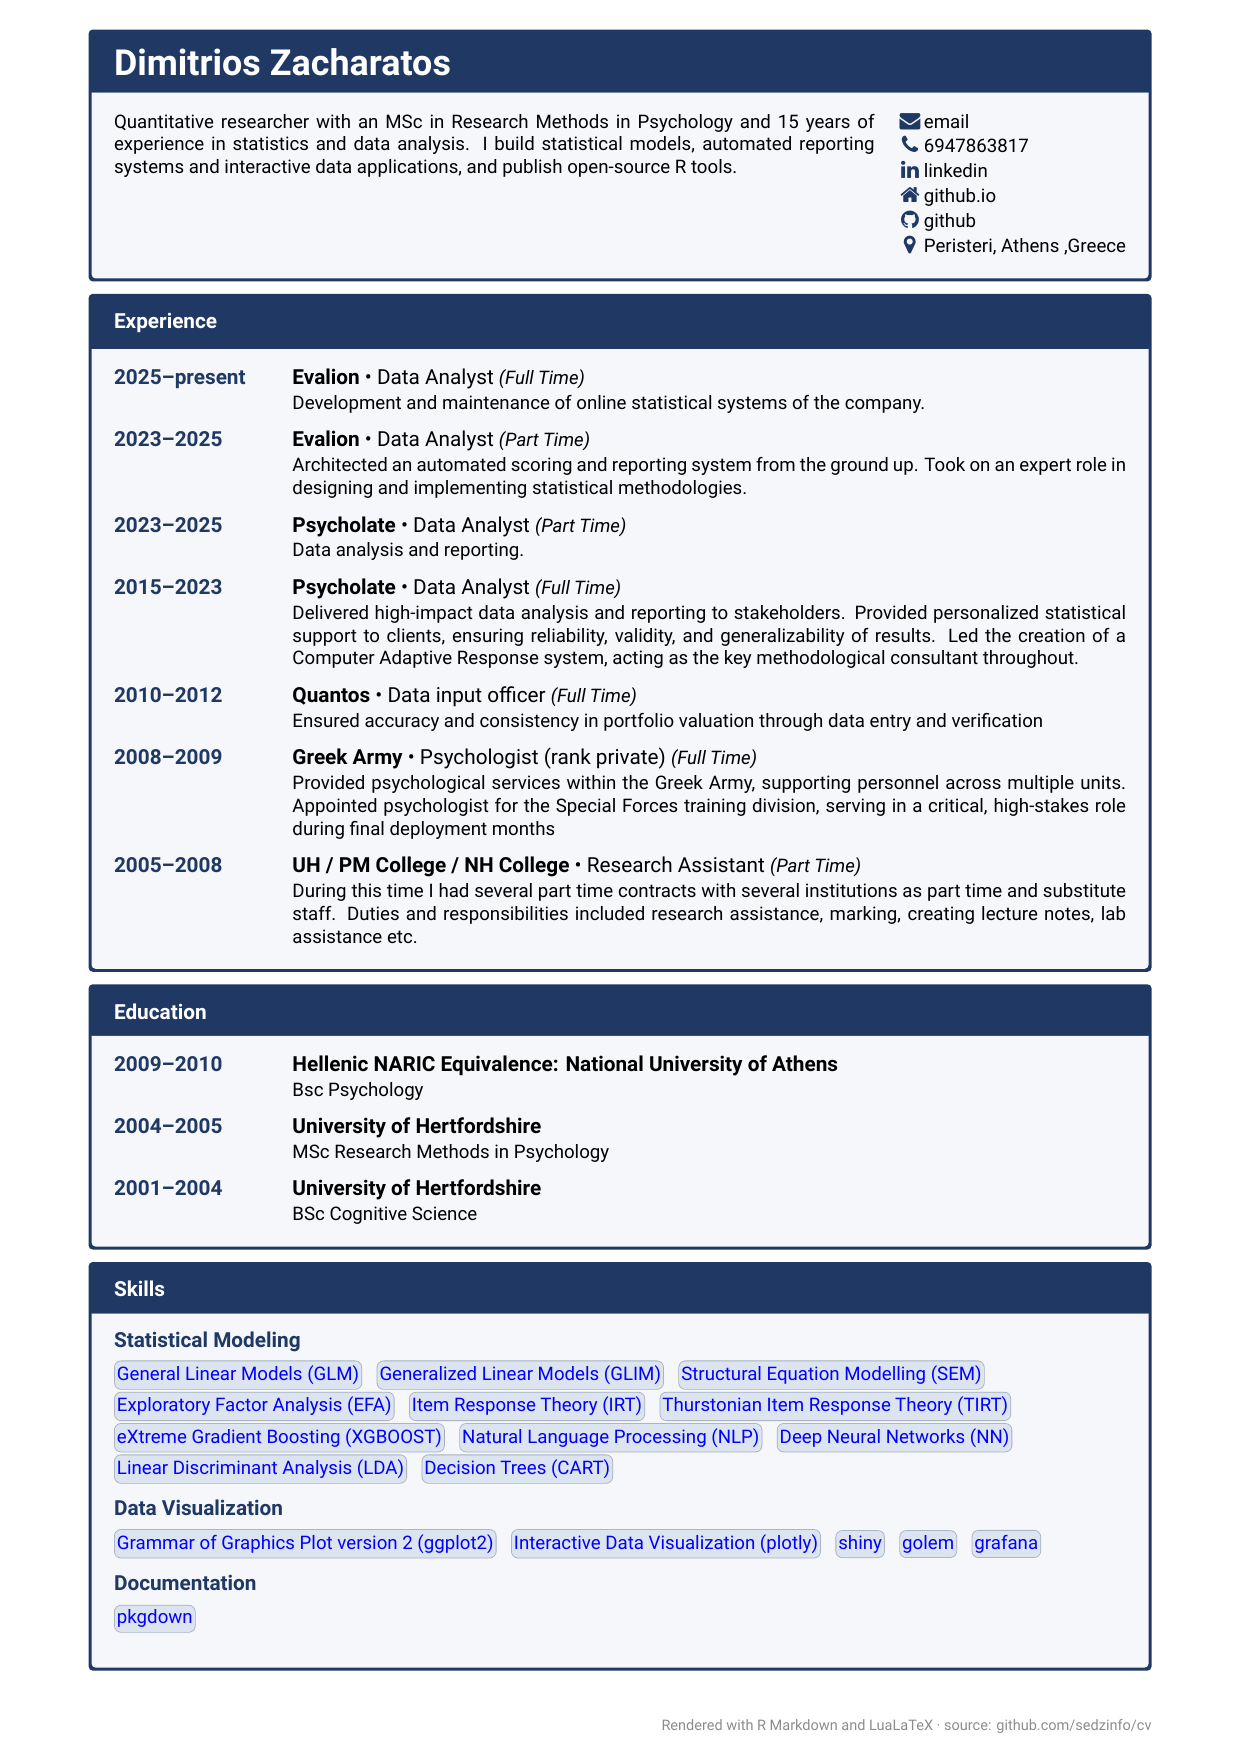
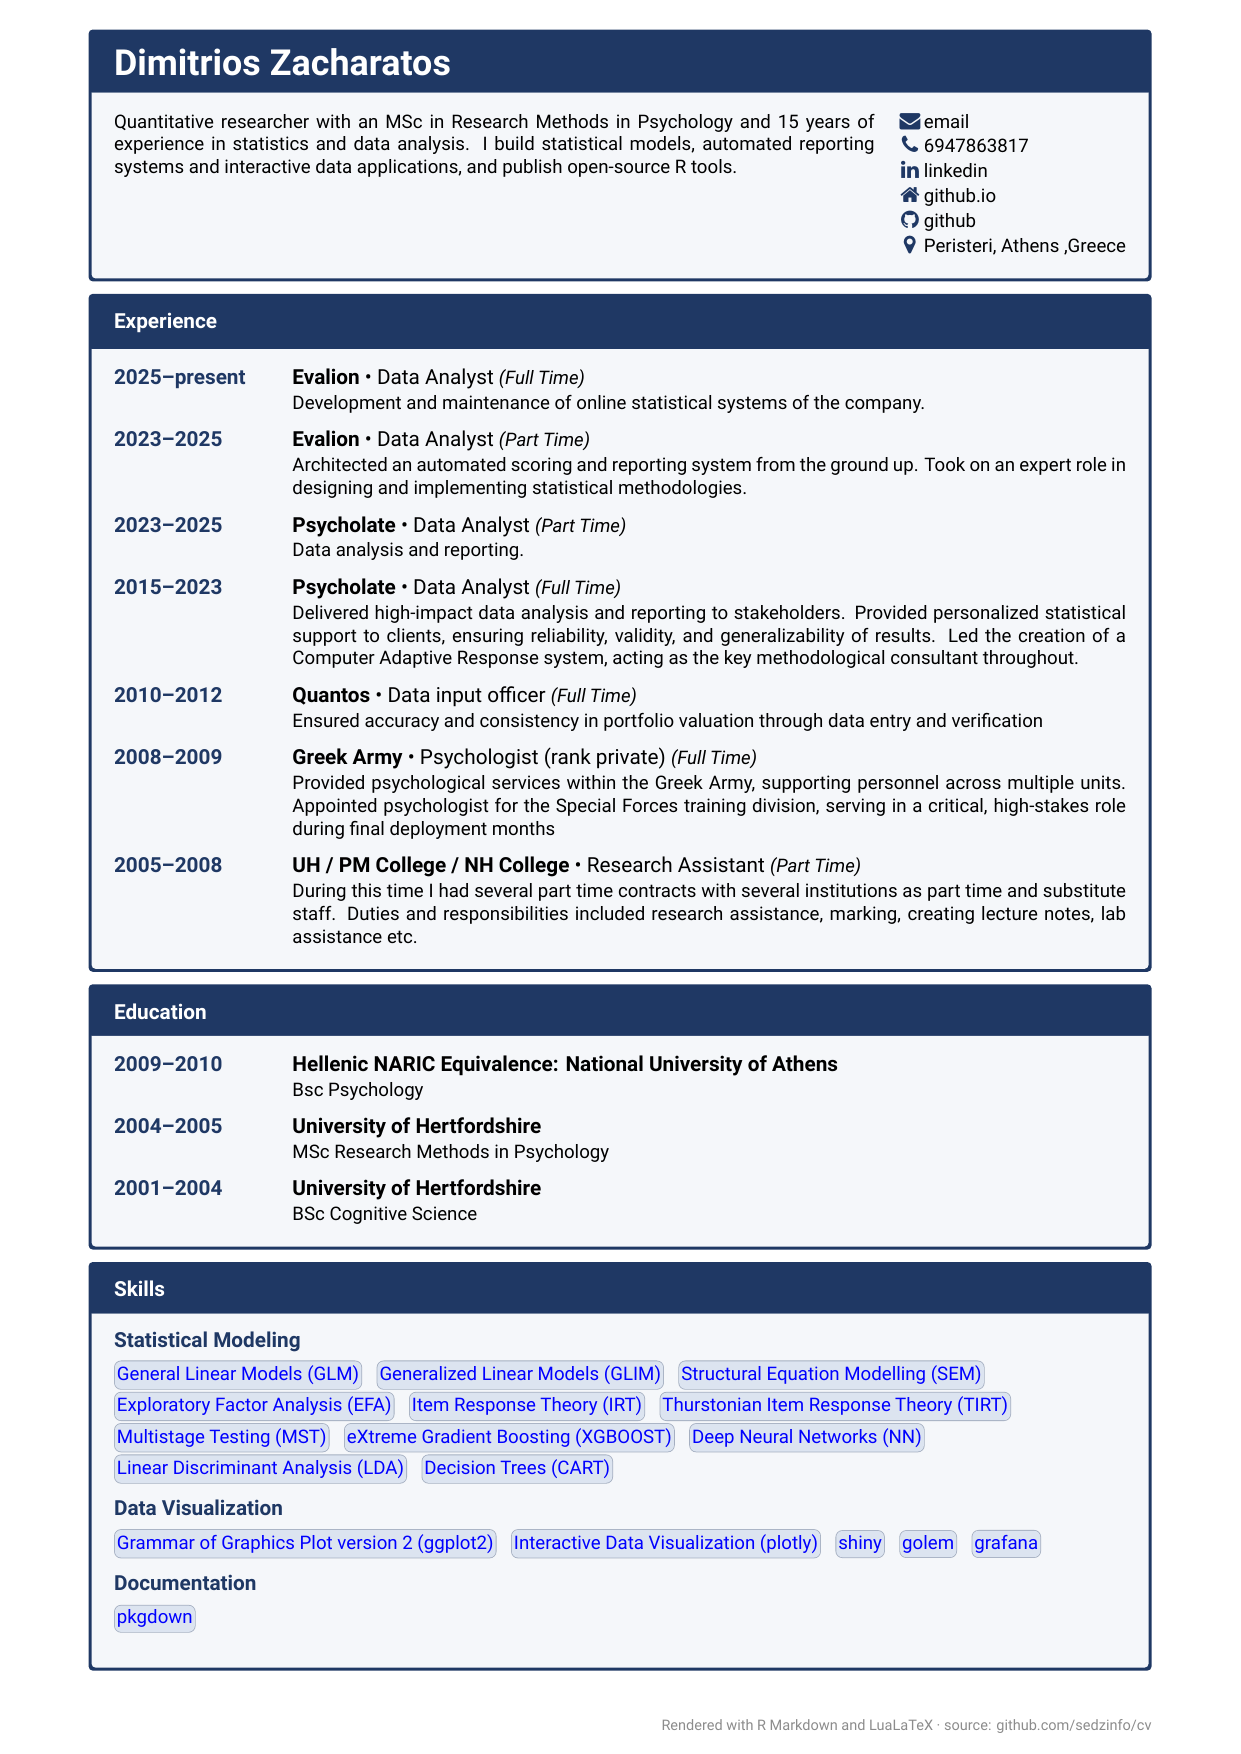
Render CV PDFs [skip ci]

Changed region(s): [[0.0919, 0.8005, 0.8268, 0.8312]]

diff --git a/cv_v2.tex b/cv_v2.tex
@@ -165,7 +165,7 @@ Quarto articles & \href{https://sedzinfo.github.io/vignettes/illustration/}{\tex
 \noindent
 
 \begin{tabularx}{\linewidth}{@{}>{\small\raggedright\arraybackslash\hyphenpenalty=10000\leavevmode\color{muted}}p{2.55cm}X@{}}
-Statistical Modeling & {\small \mbox{\href{https://sedzinfo.github.io/rwf/articles/GLM_COMPUTE_AOV_ES.html}{\textcolor{linkblue}{General Linear Models (GLM)}}}\discretionary{}{}{\hbox{\kern0.55em{\color{accent!40}\textbullet}\kern0.55em}}\mbox{\href{https://sedzinfo.github.io/rwf/articles/GLM_LOGISTIC_REGRESSION.html}{\textcolor{linkblue}{Generalized Linear Models (GLIM)}}}\discretionary{}{}{\hbox{\kern0.55em{\color{accent!40}\textbullet}\kern0.55em}}\mbox{\href{https://rpubs.com/sedzinfo/cfa_mi}{\textcolor{linkblue}{Structural Equation Modelling (SEM)}}}\discretionary{}{}{\hbox{\kern0.55em{\color{accent!40}\textbullet}\kern0.55em}}\mbox{\href{https://sedzinfo.github.io/rwf/articles/GLM_EFA.html}{\textcolor{linkblue}{Exploratory Factor Analysis (EFA)}}}\discretionary{}{}{\hbox{\kern0.55em{\color{accent!40}\textbullet}\kern0.55em}}\mbox{\href{https://sedzinfo.github.io/vignettes/cat_irt_eap/}{\textcolor{linkblue}{Item Response Theory (IRT)}}}\discretionary{}{}{\hbox{\kern0.55em{\color{accent!40}\textbullet}\kern0.55em}}\mbox{\href{https://sedzinfo.github.io/rwf/articles/GLM_IRT_T.html}{\textcolor{linkblue}{Thurstonian Item Response Theory (TIRT)}}}\discretionary{}{}{\hbox{\kern0.55em{\color{accent!40}\textbullet}\kern0.55em}}\mbox{\href{https://rpubs.com/sedzinfo/functions_train_test}{\textcolor{linkblue}{eXtreme Gradient Boosting (XGBOOST)}}}\discretionary{}{}{\hbox{\kern0.55em{\color{accent!40}\textbullet}\kern0.55em}}\mbox{\href{https://rpubs.com/sedzinfo/nlp}{\textcolor{linkblue}{Natural Language Processing (NLP)}}}\discretionary{}{}{\hbox{\kern0.55em{\color{accent!40}\textbullet}\kern0.55em}}\mbox{\href{https://rpubs.com/sedzinfo/keras_mnist}{\textcolor{linkblue}{Deep Neural Networks (NN)}}}\discretionary{}{}{\hbox{\kern0.55em{\color{accent!40}\textbullet}\kern0.55em}}\mbox{\href{https://rpubs.com/sedzinfo/lda}{\textcolor{linkblue}{Linear Discriminant Analysis (LDA)}}}\discretionary{}{}{\hbox{\kern0.55em{\color{accent!40}\textbullet}\kern0.55em}}\mbox{\href{https://rpubs.com/sedzinfo/rpart}{\textcolor{linkblue}{Decision Trees (CART)}}}}\tabularnewline
+Statistical Modeling & {\small \mbox{\href{https://sedzinfo.github.io/rwf/articles/GLM_COMPUTE_AOV_ES.html}{\textcolor{linkblue}{General Linear Models (GLM)}}}\discretionary{}{}{\hbox{\kern0.55em{\color{accent!40}\textbullet}\kern0.55em}}\mbox{\href{https://sedzinfo.github.io/rwf/articles/GLM_LOGISTIC_REGRESSION.html}{\textcolor{linkblue}{Generalized Linear Models (GLIM)}}}\discretionary{}{}{\hbox{\kern0.55em{\color{accent!40}\textbullet}\kern0.55em}}\mbox{\href{https://sedzinfo.github.io/vignettes/example/EXAMPLE_MEASUREMENT_INVARIANCE.html}{\textcolor{linkblue}{Structural Equation Modelling (SEM)}}}\discretionary{}{}{\hbox{\kern0.55em{\color{accent!40}\textbullet}\kern0.55em}}\mbox{\href{https://sedzinfo.github.io/rwf/articles/GLM_EFA.html}{\textcolor{linkblue}{Exploratory Factor Analysis (EFA)}}}\discretionary{}{}{\hbox{\kern0.55em{\color{accent!40}\textbullet}\kern0.55em}}\mbox{\href{https://sedzinfo.github.io/vignettes/cat_irt_eap/}{\textcolor{linkblue}{Item Response Theory (IRT)}}}\discretionary{}{}{\hbox{\kern0.55em{\color{accent!40}\textbullet}\kern0.55em}}\mbox{\href{https://sedzinfo.github.io/rwf/articles/GLM_IRT_T.html}{\textcolor{linkblue}{Thurstonian Item Response Theory (TIRT)}}}\discretionary{}{}{\hbox{\kern0.55em{\color{accent!40}\textbullet}\kern0.55em}}\mbox{\href{https://sedzinfo.github.io/vignettes/example/EXAMPLE_MSTR.html}{\textcolor{linkblue}{Multistage Testing (MST)}}}\discretionary{}{}{\hbox{\kern0.55em{\color{accent!40}\textbullet}\kern0.55em}}\mbox{\href{https://rpubs.com/sedzinfo/functions_train_test}{\textcolor{linkblue}{eXtreme Gradient Boosting (XGBOOST)}}}\discretionary{}{}{\hbox{\kern0.55em{\color{accent!40}\textbullet}\kern0.55em}}\mbox{\href{https://sedzinfo.github.io/vignettes/example/EXAMPLE_MNIST.html}{\textcolor{linkblue}{Deep Neural Networks (NN)}}}\discretionary{}{}{\hbox{\kern0.55em{\color{accent!40}\textbullet}\kern0.55em}}\mbox{\href{https://sedzinfo.github.io/vignettes/example/EXAMPLE_LDA.html}{\textcolor{linkblue}{Linear Discriminant Analysis (LDA)}}}\discretionary{}{}{\hbox{\kern0.55em{\color{accent!40}\textbullet}\kern0.55em}}\mbox{\href{https://sedzinfo.github.io/vignettes/example/EXAMPLE_DECISION_TREE.html}{\textcolor{linkblue}{Decision Trees (CART)}}}}\tabularnewline
 \end{tabularx}\par\vspace{3pt}
 
 \noindent

diff --git a/cv_v1.tex b/cv_v1.tex
@@ -179,15 +179,15 @@
 \raggedright
 \skillchip{\href{https://sedzinfo.github.io/rwf/articles/GLM_COMPUTE_AOV_ES.html}{\textcolor{linkblue}{General Linear Models (GLM)}}} \hspace{2pt}
 \skillchip{\href{https://sedzinfo.github.io/rwf/articles/GLM_LOGISTIC_REGRESSION.html}{\textcolor{linkblue}{Generalized Linear Models (GLIM)}}} \hspace{2pt}
-\skillchip{\href{https://rpubs.com/sedzinfo/cfa_mi}{\textcolor{linkblue}{Structural Equation Modelling (SEM)}}} \hspace{2pt}
+\skillchip{\href{https://sedzinfo.github.io/vignettes/example/EXAMPLE_MEASUREMENT_INVARIANCE.html}{\textcolor{linkblue}{Structural Equation Modelling (SEM)}}} \hspace{2pt}
 \skillchip{\href{https://sedzinfo.github.io/rwf/articles/GLM_EFA.html}{\textcolor{linkblue}{Exploratory Factor Analysis (EFA)}}} \hspace{2pt}
 \skillchip{\href{https://sedzinfo.github.io/vignettes/cat_irt_eap/}{\textcolor{linkblue}{Item Response Theory (IRT)}}} \hspace{2pt}
 \skillchip{\href{https://sedzinfo.github.io/rwf/articles/GLM_IRT_T.html}{\textcolor{linkblue}{Thurstonian Item Response Theory (TIRT)}}} \hspace{2pt}
+\skillchip{\href{https://sedzinfo.github.io/vignettes/example/EXAMPLE_MSTR.html}{\textcolor{linkblue}{Multistage Testing (MST)}}} \hspace{2pt}
 \skillchip{\href{https://rpubs.com/sedzinfo/functions_train_test}{\textcolor{linkblue}{eXtreme Gradient Boosting (XGBOOST)}}} \hspace{2pt}
-\skillchip{\href{https://rpubs.com/sedzinfo/nlp}{\textcolor{linkblue}{Natural Language Processing (NLP)}}} \hspace{2pt}
-\skillchip{\href{https://rpubs.com/sedzinfo/keras_mnist}{\textcolor{linkblue}{Deep Neural Networks (NN)}}} \hspace{2pt}
-\skillchip{\href{https://rpubs.com/sedzinfo/lda}{\textcolor{linkblue}{Linear Discriminant Analysis (LDA)}}} \hspace{2pt}
-\skillchip{\href{https://rpubs.com/sedzinfo/rpart}{\textcolor{linkblue}{Decision Trees (CART)}}} \hspace{2pt}
+\skillchip{\href{https://sedzinfo.github.io/vignettes/example/EXAMPLE_MNIST.html}{\textcolor{linkblue}{Deep Neural Networks (NN)}}} \hspace{2pt}
+\skillchip{\href{https://sedzinfo.github.io/vignettes/example/EXAMPLE_LDA.html}{\textcolor{linkblue}{Linear Discriminant Analysis (LDA)}}} \hspace{2pt}
+\skillchip{\href{https://sedzinfo.github.io/vignettes/example/EXAMPLE_DECISION_TREE.html}{\textcolor{linkblue}{Decision Trees (CART)}}} \hspace{2pt}
 
 \vspace{8pt}
 

diff --git a/cv_v0.tex b/cv_v0.tex
@@ -192,15 +192,15 @@
 \raggedright
 \skillchip{\href{https://sedzinfo.github.io/rwf/articles/GLM_COMPUTE_AOV_ES.html}{\textcolor{blue}{General Linear Models (GLM)}}} \hspace{2pt}
 \skillchip{\href{https://sedzinfo.github.io/rwf/articles/GLM_LOGISTIC_REGRESSION.html}{\textcolor{blue}{Generalized Linear Models (GLIM)}}} \hspace{2pt}
-\skillchip{\href{https://rpubs.com/sedzinfo/cfa_mi}{\textcolor{blue}{Structural Equation Modelling (SEM)}}} \hspace{2pt}
+\skillchip{\href{https://sedzinfo.github.io/vignettes/example/EXAMPLE_MEASUREMENT_INVARIANCE.html}{\textcolor{blue}{Structural Equation Modelling (SEM)}}} \hspace{2pt}
 \skillchip{\href{https://sedzinfo.github.io/rwf/articles/GLM_EFA.html}{\textcolor{blue}{Exploratory Factor Analysis (EFA)}}} \hspace{2pt}
 \skillchip{\href{https://sedzinfo.github.io/vignettes/cat_irt_eap/}{\textcolor{blue}{Item Response Theory (IRT)}}} \hspace{2pt}
 \skillchip{\href{https://sedzinfo.github.io/rwf/articles/GLM_IRT_T.html}{\textcolor{blue}{Thurstonian Item Response Theory (TIRT)}}} \hspace{2pt}
+\skillchip{\href{https://sedzinfo.github.io/vignettes/example/EXAMPLE_MSTR.html}{\textcolor{blue}{Multistage Testing (MST)}}} \hspace{2pt}
 \skillchip{\href{https://rpubs.com/sedzinfo/functions_train_test}{\textcolor{blue}{eXtreme Gradient Boosting (XGBOOST)}}} \hspace{2pt}
-\skillchip{\href{https://rpubs.com/sedzinfo/nlp}{\textcolor{blue}{Natural Language Processing (NLP)}}} \hspace{2pt}
-\skillchip{\href{https://rpubs.com/sedzinfo/keras_mnist}{\textcolor{blue}{Deep Neural Networks (NN)}}} \hspace{2pt}
-\skillchip{\href{https://rpubs.com/sedzinfo/lda}{\textcolor{blue}{Linear Discriminant Analysis (LDA)}}} \hspace{2pt}
-\skillchip{\href{https://rpubs.com/sedzinfo/rpart}{\textcolor{blue}{Decision Trees (CART)}}} \hspace{2pt}
+\skillchip{\href{https://sedzinfo.github.io/vignettes/example/EXAMPLE_MNIST.html}{\textcolor{blue}{Deep Neural Networks (NN)}}} \hspace{2pt}
+\skillchip{\href{https://sedzinfo.github.io/vignettes/example/EXAMPLE_LDA.html}{\textcolor{blue}{Linear Discriminant Analysis (LDA)}}} \hspace{2pt}
+\skillchip{\href{https://sedzinfo.github.io/vignettes/example/EXAMPLE_DECISION_TREE.html}{\textcolor{blue}{Decision Trees (CART)}}} \hspace{2pt}
 
 \vspace{8pt}
 
